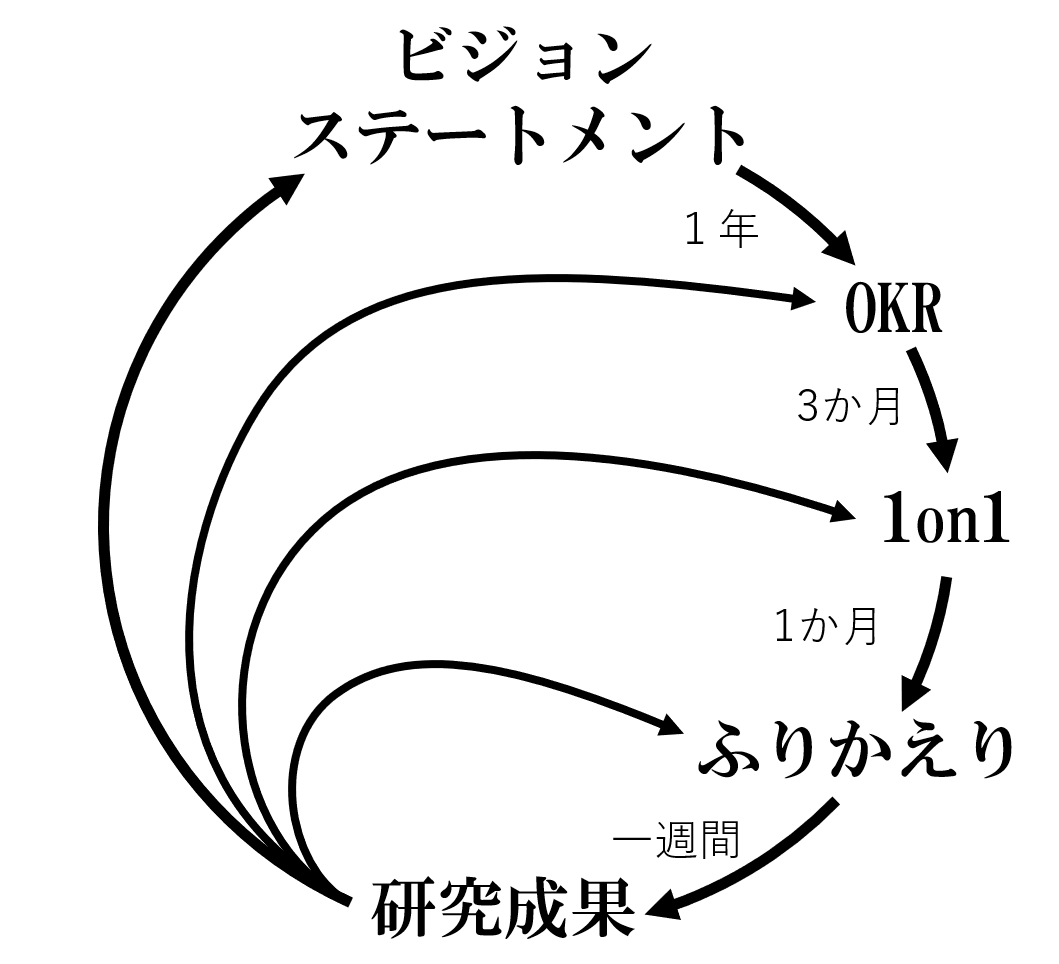
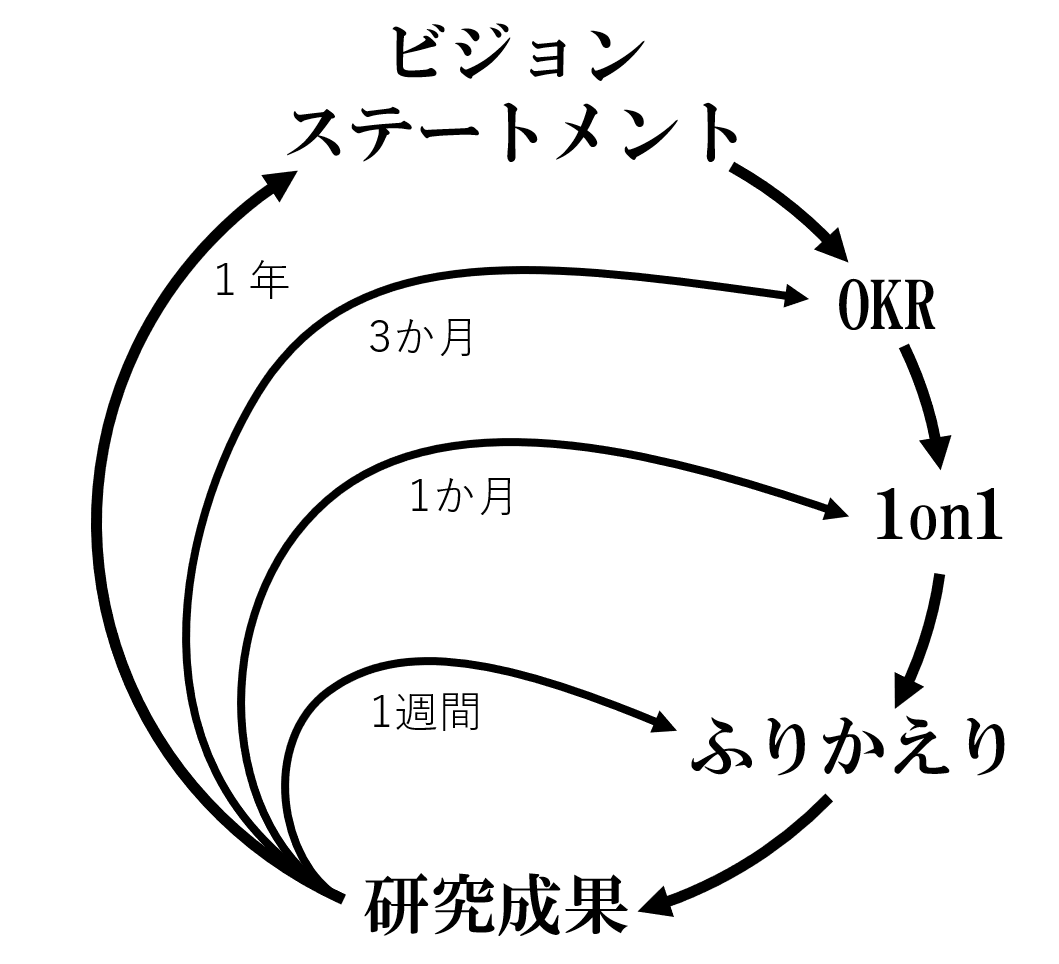
imagire章：階層フィードバックの説明の修正

diff --git a/chap-imagire.md b/chap-imagire.md
@@ -20,17 +20,17 @@
 ## 研究活動とアジャイル
 
 これを読まれている方は、卒業研究をされた方が多いのでしょうか。
-そのような方には復習として、もしくは自分の時との違いを考えてもらながら。卒研がまだだったり卒業制作などであった方は、こんな感じなのか（？）と、読んでもらえればと思います。
+そのような方は、自分の時との違いを考えてもらいながら。卒研がまだだったり卒業制作などであった方は、こんな感じなのか（？）と、読んでもらえればと思います。
 
 研究とは何でしょうか？
 
 ざっくりと言うと、研究とは、新規性のあるネタを考えて、その考えを既存の手法と比較して、それなりの違いが出たところで論文としてまとめるプロジェクトと言えます。
-卒業研究は、研究者となるための訓練や、おためし研究体験という意味合いも大きく、論文誌にのるような研究になることは少ないのですが、学会発表で研究成果を発表することをゴールにしていることも多いです。
+卒業研究は、研究者となるための訓練や、おためし研究体験という意味合いも強く、論文誌に載るような研究になることは少ないのですが、学会発表で研究成果を発表することをゴールにしている研究室も多いです。
 
 研究とアジャイルの親和性はとても高いです。
 研究は、ゴールまでの道筋があらかじめ決まっているわけではありません。
 最初に考えた方法を実装しようとしても、実現できなかったり効果がないことは当たり前、研究を進めていくうちに新しいアイデアが出てくることも日常茶飯事です
-（というか、最初から最後までスムーズに進むような研究は、誰もが考えつくような新規性が低いアイデアの可能性が高いので、もっと背伸びをした挑戦をすべきでしょう）。
+（というか、最初から最後までスムーズに進むような研究は、誰もが考えつくような新規性が低いアイデアの可能性が高いので、もっと背伸びをしてチャレンジしましょう）。
 研究が進むにつれて目標を修正することは避けられません。
 かといって、自転車操業で来週やることを毎週末に決めるのも先が見えなくて危険です。
 卒業研究では「卒業」という強い〆切があるので、限られた期間の中でどのように成果を出すのかという事がとても重要になってきます。
@@ -45,71 +45,72 @@
 ## 階層型のフィードバックサイクル
 
 自分が意識しているのはフィードバックの多重性です。
-スクラムによって数週毎のイテレーションを過ごしていれば良いというのは、やはりありえません。全体的なプロジェクトの締め切りを見据えながら、そして中間で確認をするマネジメントはとても重要です。
+「スクラムによって数週毎のイテレーションを回しているだけで良い」というのは、やはりありえません。全体的なプロジェクトの締め切りを見据えながら、そして中間で確認をするマネジメントはとても重要です。
 
 「エクストリーム・プログラミングの計画とフィードバックのループ」でも、秒・分・時間・日・複数日・週・月といった周期の多重のフィードバックが紹介されています。
 この階層的なフィードバックを卒業研究に適応しようと考えると、いくつかのはめやすい周期があるので、
-その周期を元にプロセスを設計しました。
+その期間を基準にプロセスを構築しています。
 いくつかの試行錯誤を繰り返して、現在は4階層のプロセスを実施しています。
 
 ![ゼミ運営の階層型フィードバック](images/chap-imagire/loop.png?scale=0.3)
 
-### 毎週のふりかえり
-
-多くゼミでは、週一での進捗報告があります。
-アジャイルの用語としてはレビューに当たるでしょう。
-学校は、時間割という形で強制的な時間の区切りが作られます。
-大学4年のような卒業年次になると卒業研究以外の授業は取らないことも多いので（実情はともかく、なるべくそうなっていて欲しいです…）、時間割に縛られないのではないかと思うかもしれません。ですが、教員は他の講義・委員会の会議等で拘束されるので、週ごとの予定を決めるのがなんだかんだ言ってしっくりきます。
-
-という事で、自然と一週間が1つのイテレーションの期間となります。
-自分の研究室では、ゼミの時間に進捗報告や輪講をする他にふりかえりをしています。
-一通りゼミでやることを終えた後に、ホワイトボードに付箋紙を貼ってふりかえりをしています。
-オフラインで合えない場合には、zoomでmiroを画面共有しています。
-
-ふりかえりの方法は、最初は「広く知られている」という事でKPTをするのですが、YWTに移っていくことが多いです。
-KPTだと「やったこと」を思い出すステップが追加で必要になりがちなので、良くない考えですが時間の省力化でYWTにしてしまいがちです。
-
-ただ、KPTやYWTでのふりかえりの方法はあまりよくないと悩んでいます。
-個人での卒業研究のふりかえりとなると、普段の活動が個人単位の作業になるので、ふりかえりをみんなで行ったとしても他の人のTRYを考えるのはなかなかできません。
-創発を促すようなファシリテーションをしたこともあるのですが、どうしても無理やり感が否めなかったので、強引に他の人の付箋紙を見てもらうのは止めました。
-他にも、チーム全体としてのふりかえりでないと、自然と「誰誰さんはどの場所」と各人の書く位置が決まりがちです。
-形式が固定化されてしまうのは、よろしくないと考えているのですが、よい改善はできていません。
-
 ### 毎年・3か月ごとの目標設定
 
-2つ目のイテレーションの期間は1年です。
+大きな輪から見ていきましょう。1つ目のイテレーションの期間は1年です。
 学校では、なんだかんだ言って学年ごとにカリキュラムが考えられています。
 年度で全体スケジュールを考えなくてはならないことから、1年単位にふりかえるのは自然な事といえるでしょう。
 
 この1年という期間が一番大きなものになるので、このイテレーションでは目指す目標を設定したい所です。
 目標設定という点では、4年次は就活や卒研という目標があるので分かりやすいです。一方、3年次は「この1年で就活に対する準備をする」という、本来は幾ら時間があっても足りないぐらいなのですが、状況が見えにくく、ただ準備するように言っても何もしないことになりがちな危うい時期です。
 
-こんな時に大事なのが表出化だと思っています。内面に持つものを強制的に書き出すことで、目標を目に見える状態にして、意識付けさせています。
+こんな時に大事なのが表出化だと思っています。内面に持つものを強制的に書き出すことで、目標を目に見える状態にして、意識付けをしています。
 具体的には、3年次に配属した最初のタイミングで、ビジョンステートメントとして自分の将来について考えてもらいます。
 - あなたの人生の目標は何ですか？
 - 人生の目標に達するためのステップはどのようなもので、何時までに達したいですか？
 - 人生のステップを進むために、大学卒業時にはどのようになるべきですか？
 
-しかし、ただ目標を考えるだけでは、推進するための力としては弱いでしょう。OKR、といえるほどきちんと行えていないのですが、目標は短期間でできる成果に分解してもらっています。
+しかし、ただ目標を考えるだけでは、推進するための力としては弱いでしょう。OKR、といえるほどきちんと行えていないのですが、目標を短期間でできる成果に分解してもらっています。
 
 - 卒業時の姿になるまでに、3ヵ月単位で何ができているべきですか？
 - 3年終了時にできているものを用意するために、この3ヵ月間で何をしますか？
 
-大学としては、前期・後期と半年ごとにカリキュラムが分かれているので、目標を半年ごとに管理するのが自然なのですが、半年ごとの管理では目標のチェックとして長いと感じているので、3ヵ月単位でやることを詳細化してもらっています。
+大学としては、前期・後期と半年ごとにカリキュラムが分かれているので、目標を半年ごとに管理する方が自然なのですが、半年ごとの管理では目標のチェックとして長いと感じているので、その半分ぐらいの3ヵ月単位での指標に詳細化してもらっています。
 
 ### 毎月の1on1
 
-目標ができたかどうかの確認ですが、週一のふりかえりでは期間が短すぎて、
-なかなか3ヵ月単位の話と反りが合いません。
-目標を確認するための機会は、いつものふりかえりとは別に必要です。それが最後のイテレーションです。
+目標ができたかどうかの確認ですが、毎日や毎週のふりかえりでは期間が短すぎて、なかなか3ヵ月単位の話と反りが合いません。
+目標を確認するための機会は、ふりかえりとは別に必要です。それがOKRの内側のイテレーションになります。
 
 自分のゼミでは、1on1をゼミの前の時間に行っています。
 ゼミの開始前の30分を使って、毎週入れ替わりで30分か15分の長さで1on1をしています。
 長さが複数あるのは、対象とする学生数の違いです。
 3年生や4年生、院生は、ゼミの曜日を分けています。5, 6人ぐらいまでなら毎回30分話せるのですが、その人数を超えると、それぞれの学生と離す間隔が2ヵ月ぐらいになってしまいます。
-なるべく1か月程度の周期で話ができるように、1on1を実施する長さの方を調整して、人数が多い場合は毎回15分の1on1を2人としています。
+なるべく1か月程度の周期で話ができるように、1on1を実施する長さの方を調整して、人数が多い場合は毎回2人の15分1on1をしています。
 
 1on1で話す内容は、将来の目標についての確認と見直しや、4年次であれば就活相談をしています。それだけだとプレッシャーをかけまくる感じになりがちなので、現在やっているゲームや読んでいる本・マンガや見ているアニメなどを教えてもらったりもします（ゲーム学科だからね）。
+
+### 毎週のふりかえり
+
+今回一番内側のループは、おなじみのふりかえりです。
+
+学校は、時間割という形で強制的な時間の区切りが作られます。
+大学4年のような卒業年次になると卒業研究以外の授業は取らないことも多いので（実情はともかく、なるべくそうなっていて欲しいです…）、時間割に縛られないのではないかと思うかもしれません。ですが、教員が他の講義・委員会の会議等で拘束されるので、週ごとの予定を決めるのがなんだかんだ言ってしっくりきます。
+という事で、自然と一週間が1つのイテレーションの周期となります。
+
+多くゼミでは、進捗報告が毎週あることが多いです。
+これは、アジャイルの用語としてはレビューに当たるでしょう。
+自分の研究室では、ゼミの時間の進捗報告や輪講をした後でふりかえりをしています。
+一通りゼミでやることを終えた後に、ホワイトボードに付箋紙を貼ってふりかえりをしています。
+オフラインで合えない場合には、zoomでmiroを画面共有しています。
+
+ふりかえりの方法は、最初は「広く知られている」という事でKPTをするのですが、YWTに移っていくことが多いです。
+KPTだと「やったこと」を思い出すステップが追加で必要になりがちなので、時間の省力化でYWTにしてしまいがちです（ブラック思考なので単純に真似しちゃダメ！）。
+
+ただ、KPTやYWTでのふりかえりの方法はあまりよくないと悩んでいます。
+個人での卒業研究のふりかえりとなると、普段の活動が個人単位の作業になるので、ふりかえりをみんなで行ったとしても他の人のTRYを考えるのはなかなかできません。
+創発を促すようなファシリテーションをしたこともあるのですが、どうしても無理やり感が否めなかったので、強制的に他の人の付箋紙も観察してもらうのは止めています。
+他にも、チーム全体としてのふりかえりでないと、自然と「誰誰さんはどの場所」と各人の書く位置が決まりがちです。
+形式が固定化されてしまうのは、よろしくないと考えているのですが、よい改善はできていません。
 
 ## まとめ
 
